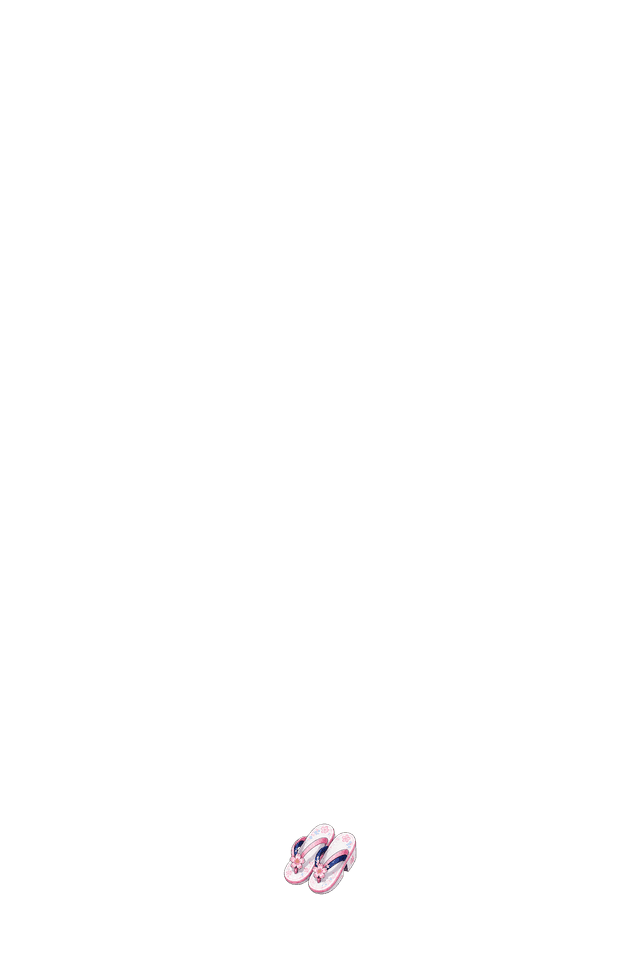
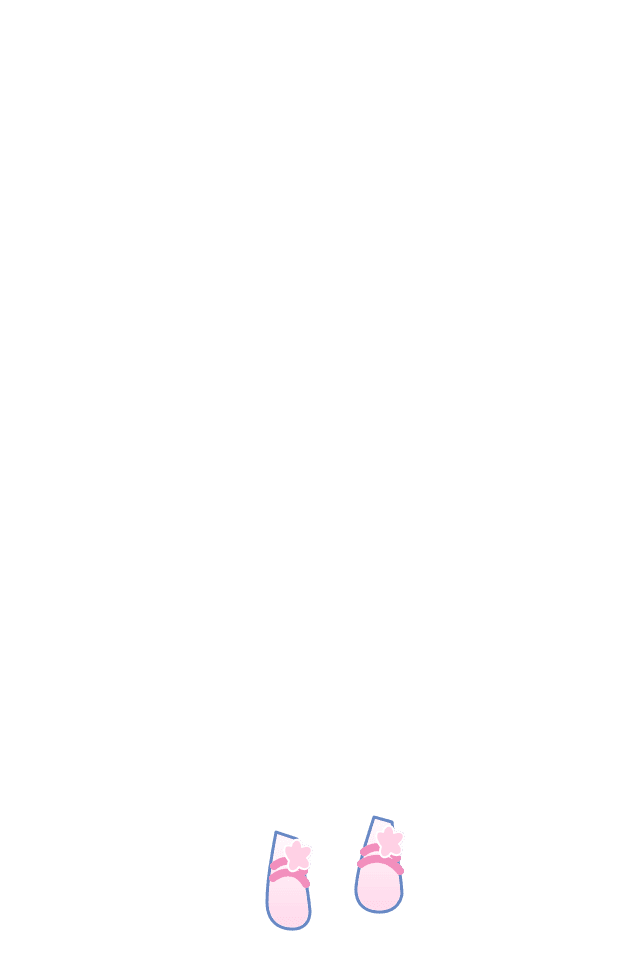
fix(data): 让樱酱心虹木屐贴合双脚

Changed region(s): [[0.4062, 0.8438, 0.6562, 0.9688]]

diff --git a/art-source/characters/kenshi/wearables/PROMPTS.md b/art-source/characters/kenshi/wearables/PROMPTS.md
@@ -24,6 +24,9 @@
 - necklace / bracelet / ring / belt / shoes 分别对位胸、腕、手、腰与足；
 - 三件 body 使用上节完整人物替换母版。
 
+`snowstep-sakura-sandals` 不再把双鞋商品图整体缩放到脚前；构建脚本按
+`base-noshoes.png` 的左右脚轮廓分别绘制鞋底、绑带与樱花扣，保证两只鞋各自覆盖脚掌。
+
 竞技 4 件与心虹 10 件全部使用独立 `appearanceId`，单穿时
 `visibleEquippedCount=1`，禁止回落精品主题或 `slot-only`。
 
